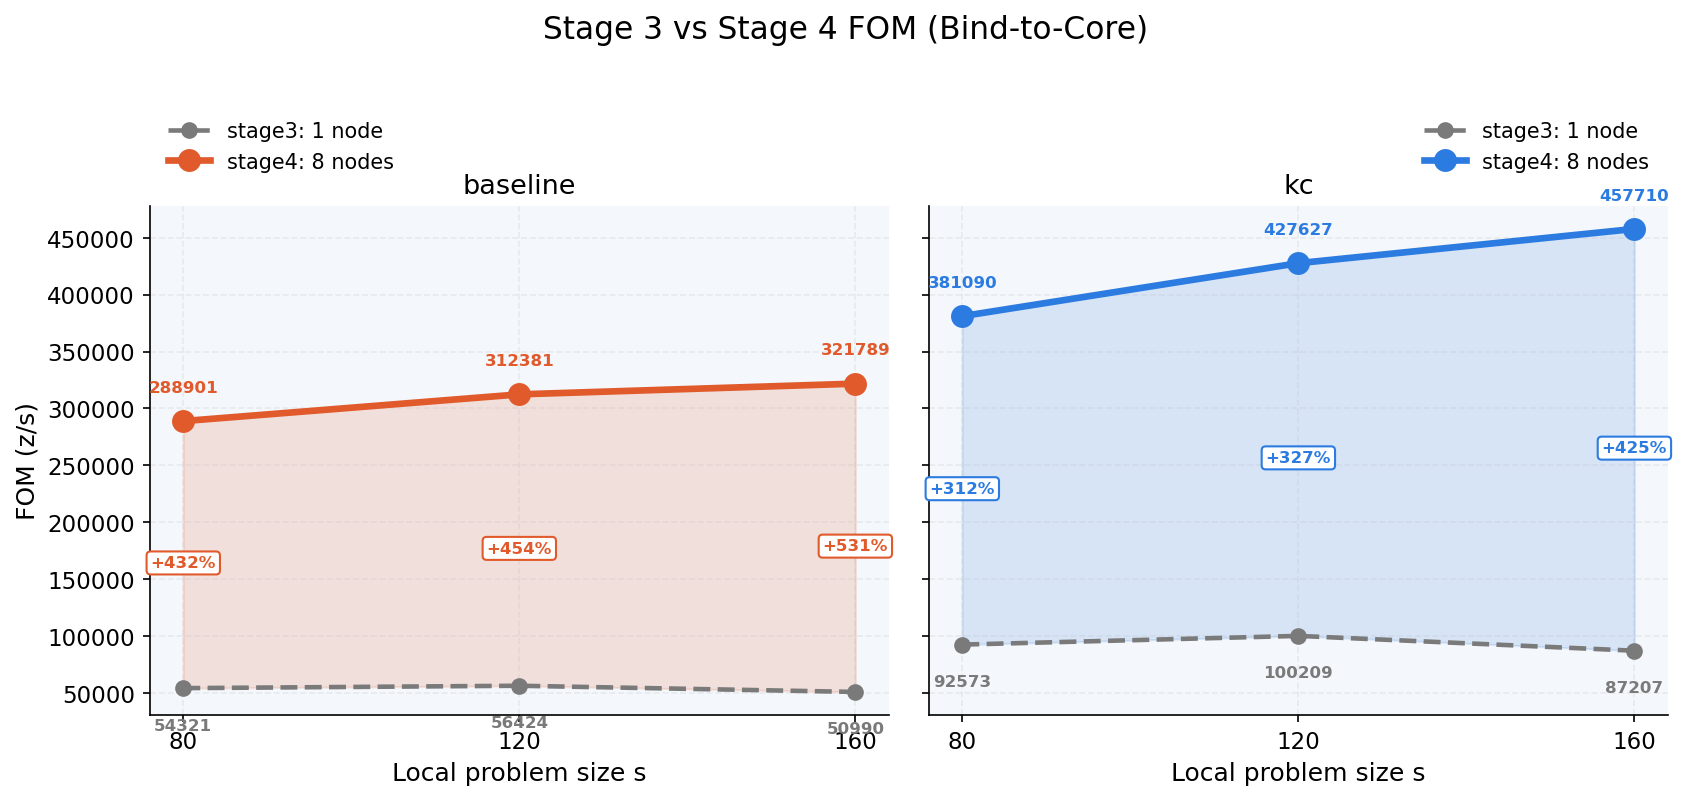
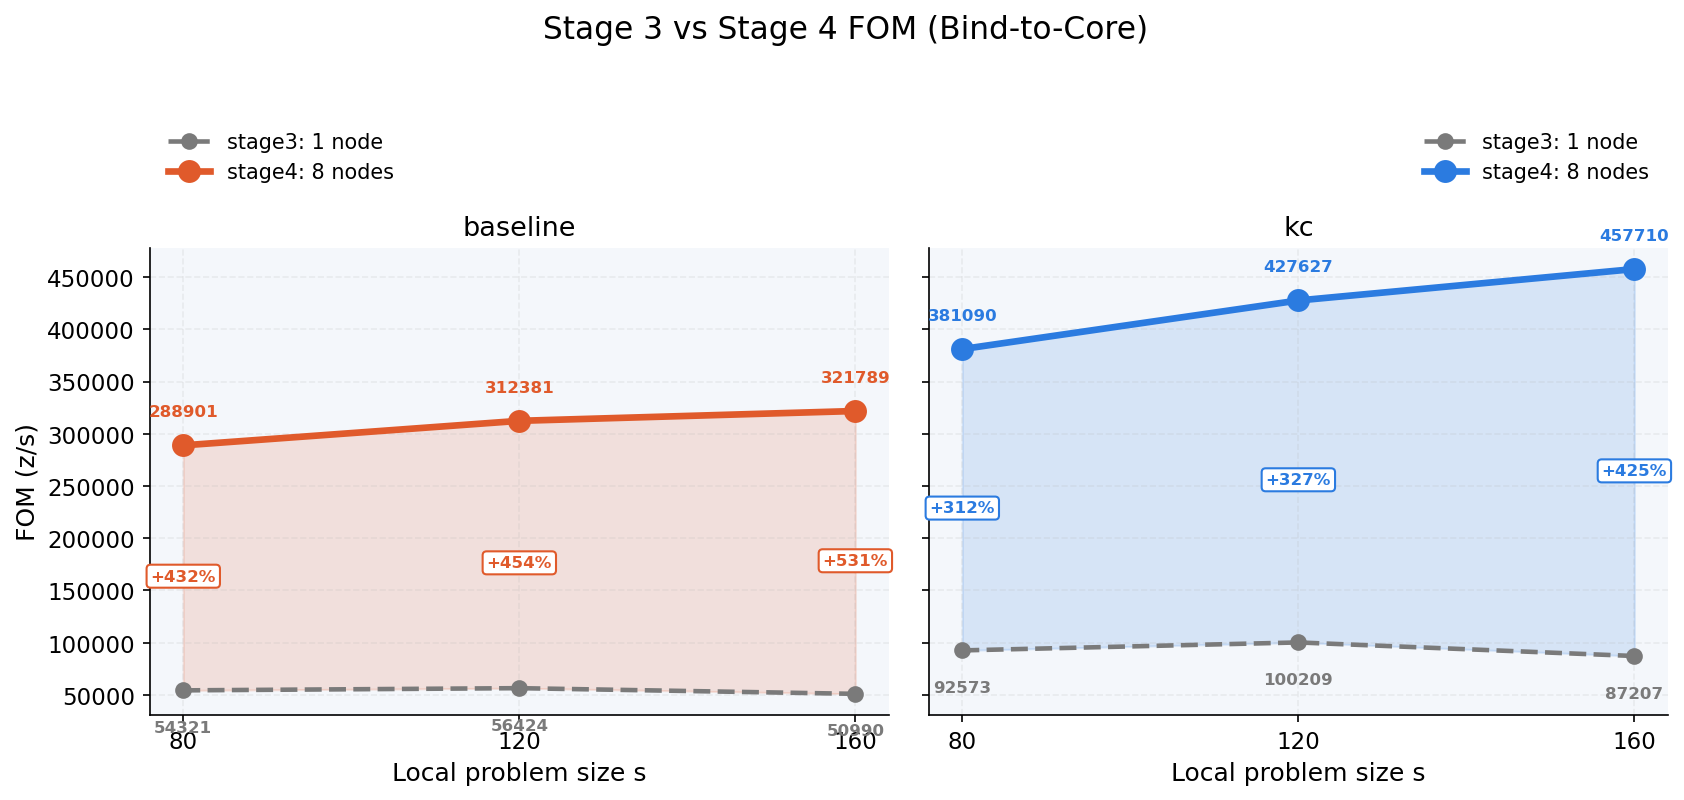
modifier the figures of stage4

diff --git a/reports/figures/gen_stage4_plots.py b/reports/figures/gen_stage4_plots.py
@@ -324,7 +324,7 @@ def plot_stage4_strong_fom(stage4_rows: list[dict[str, str]], out_dir: Path) -> 
     ax.set_xlabel("Local problem size s")
     ax.set_ylabel("FOM (z/s)")
     ax.set_xticks(actual_sizes, [str(size) for size in actual_sizes])
-    ax.legend(frameon=False, loc="upper left")
+    ax.legend(frameon=False, loc="upper left",bbox_to_anchor=(0.0, 1.03), ncol=2)
 
     fig.tight_layout()
     fig.savefig(out_dir / "stage4_strong_fom.png", bbox_inches="tight")
@@ -464,9 +464,9 @@ def plot_stage3_stage4_fom(
         ax.set_xticks(sizes, [str(size) for size in sizes])
         ax.set_xlabel("Local problem size s")
         if idx == 0:
-            ax.legend(frameon=False, loc="lower left", bbox_to_anchor=(0.0, 1.03))
+            ax.legend(frameon=False, loc="lower left", bbox_to_anchor=(0.0, 1.10))
         else:
-            ax.legend(frameon=False, loc="lower right", bbox_to_anchor=(1.0, 1.03))
+            ax.legend(frameon=False, loc="lower right", bbox_to_anchor=(1.0, 1.10))
 
     axes[0].set_ylabel("FOM (z/s)")
     fig.suptitle("Stage 3 vs Stage 4 FOM (Bind-to-Core)", fontsize=15, y=1.02)
